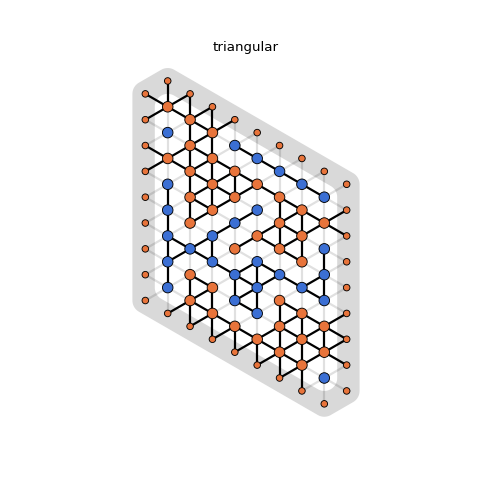
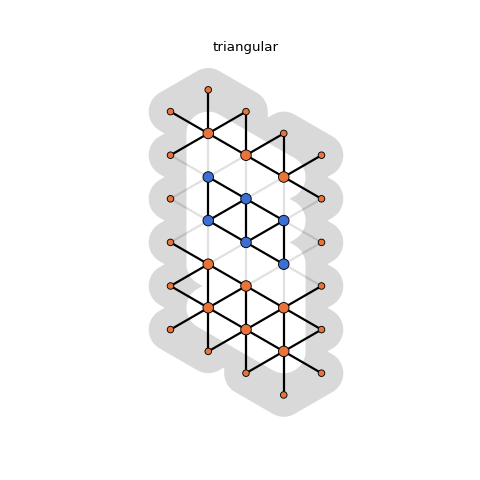
NX Support

Changed region(s): [[0.25, 0.125, 0.75, 0.875]]

diff --git a/perfectSim/viz_demo.py b/perfectSim/viz_demo.py
@@ -2,7 +2,9 @@
 import os
 os.environ.setdefault('MPLBACKEND', 'Agg')
 import numpy as np
-from perfectSim.lattice import grid, triangular, torus, boundary_values, make_lattice, hexagonal, complete, FREE, d_ary_tree
+import networkx as nx
+from perfectSim.lattice.lattice import grid, triangular, torus, boundary_values, hexagonal, complete
+from perfectSim.lattice.latticenx import from_nx
 from perfectSim.models.ising import Ising
 from perfectSim.models.hardCore import HardCoreBipartite
 from perfectSim.models.randomCluster import MonotoneRandomCluster
@@ -24,10 +26,10 @@ save(animate(lat, states, boundary=bd, model=model, edge_rule='aligned'),
      f'{out}/ising.gif', fps=10, dpi=60)
 
 # 2. Triangular lattice with a boundary (band follows the parallelogram).
-tree = d_ary_tree(5, 3)
-tbd = boundary_values(tree, 1)
-draw(tree, rng.choice([-1, 1], tree.n_sites), boundary=tbd, edge_rule='aligned',
-     title='tree').fig.savefig(f'{out}/tree.png', dpi=80)
+tri = triangular(5, 3, ghosts=True)
+tbd = boundary_values(tri, 1)
+draw(tri, rng.choice([-1, 1], tri.n_sites), boundary=tbd, edge_rule='aligned',
+     title='triangular').fig.savefig(f'{out}/triangular.png', dpi=80)
 
 # 3. Torus: wrap-around edges drawn as stubs.
 tor = torus(8)
@@ -70,81 +72,35 @@ states, updated = forward_trajectory(kn_rc)
 kn_anim = animate(kn, edge_states=states)
 save(kn_anim, f'{out}/kn_rc.gif', fps=10)
 
-# L-shape
+# L-Shape
+internal_coords = set(
+    [(r, c) for r in range(2) for c in range(5)] + 
+    [(r, c) for r in range(2, 5) for c in range(2)]
+)
 
-# 1. Define the L-shape coordinates (r, c)
-# Top part: 5 wide (cols 0-4), 2 high (rows 0-1)
-# Short part: 2 wide (cols 0-1), 3 high (rows 2-4)
-internal_coords = set()
-for r in range(2):
-    for c in range(5):
-        internal_coords.add((r, c))
-for r in range(2, 5):
-    for c in range(2):
-        internal_coords.add((r, c))
-
-# 2. Find boundary (ghost) coordinates surrounding the shape
-ghost_coords = set()
+G = nx.Graph()
+for r, c in internal_coords:
+    G.add_node((r, c), pos=(r, c)) # boundary is False by default
 for r, c in internal_coords:
     for dr, dc in [(0, 1), (1, 0), (0, -1), (-1, 0)]:
         nr, nc = r + dr, c + dc
+        
         if (nr, nc) not in internal_coords:
-            ghost_coords.add((nr, nc))
+            if not G.has_node((nr, nc)):
+                G.add_node((nr, nc), pos=(nr, nc), boundary=True)
+                
+        G.add_edge((r, c), (nr, nc))
 
-internal_list = sorted(list(internal_coords))
-ghost_list = sorted(list(ghost_coords))
-
-n_sites = len(internal_list)
-n_boundary = len(ghost_list)
-
-# Map coordinate tuples to sequential node IDs
-coord_to_id = {}
-for i, coord in enumerate(internal_list):
-    coord_to_id[coord] = i
-for i, coord in enumerate(ghost_list):
-    coord_to_id[coord] = n_sites + i
-
-# 3. Allocate lattice arrays
-pos = np.empty((n_sites + n_boundary, 2), dtype=np.float32)
-colour = np.empty(n_sites, dtype=np.int8)
-nbr = np.full((n_sites, 4), FREE, dtype=np.int32)
-
-for (r, c), v in coord_to_id.items():
-    pos[v] = (r, c)  # Stored as (row, col). The renderer naturally maps this to (x, y)
-    
-    if v < n_sites:
-        # Standard grid bipartite colouring
-        colour[v] = (r + c) % 2
-        
-        # Populate neighbors up to max degree of 4
-        valid_nbrs = []
-        for dr, dc in [(0, 1), (1, 0), (0, -1), (-1, 0)]:
-            nr, nc = r + dr, c + dc
-            if (nr, nc) in coord_to_id:
-                valid_nbrs.append(coord_to_id[(nr, nc)])
-        
-        nbr[v, :len(valid_nbrs)] = valid_nbrs
-
-# 4. Construct the Lattice object
-l_lat = make_lattice(
-    n_sites=n_sites, 
-    nbr=nbr, 
-    is_bipartite=True, 
-    colour=colour, 
-    n_boundary=n_boundary, 
-    ghost_pos=pos[n_sites:], 
-    pos=pos
+l_lat = from_nx(
+    G, 
+    boundary_key='boundary', 
+    layout=lambda g: nx.get_node_attributes(g, 'pos')
 )
 
-# 5. Set boundary conditions using a vectorized lambda
-# Since pos stores (r, c), the arguments passed to the lambda are (r, c).
-# This rule sets the top/right to +1 and the bottom/left to -1 to force a domain wall.
 bd = boundary_values(
     l_lat, 
     lambda r, c: np.where((r > 2) | (c < 2), -1, 1)
 )
-
-# 6. Run simulation and animate
 ising_model = Ising(l_lat, beta=0.44, boundary=bd)
 states, updated = forward_trajectory(ising_model, steps=400, stride=4, seed=10)
 

diff --git a/perfectSim/lattice/lattice.py b/perfectSim/lattice/lattice.py
@@ -2,7 +2,7 @@
 Lattices
 '''
 
-from dataclasses import dataclass
+from dataclasses import dataclass, replace
 from typing import Optional, Union
 import numpy as np
 
@@ -15,7 +15,6 @@ class Lattice:
     nbr: np.ndarray, (n_sites, max_degree) nbr[v] contains the neighbours of v
     is_bipartite: bool, is the graph bipartite
     n_boundary: Optional[int], number of boundary vertices
-    ghost_pos: Optional[np.ndarray], (n_boundary, ndim) grid coords of boundary sites
     colour: Optional[np.ndarray], (n_sites,) array of 1s and 0s, required for bipartite graphs
     n_edges: Optional[int], number of edges
     edges: Optonal[np.ndarray], (n_edges, 2) mapping edge_id -> (site_u, site_v)
@@ -26,7 +25,6 @@ class Lattice:
     is_bipartite: bool
 
     n_boundary: Optional[int] = 0
-    ghost_pos: Optional[np.ndarray] = None
     colour: Optional[np.ndarray] = None
 
     n_edges: Optional[int] = 0
@@ -49,7 +47,13 @@ class Lattice:
     @property
     def null(self) -> int: return self.n_sites + self.n_boundary
 
-def make_lattice(n_sites, nbr, is_bipartite, colour = None, n_boundary=0, ghost_pos=None, pos=None) -> Lattice:
+    @property
+    def ghost_pos(self):
+        if self.n_boundary == 0 or self.pos is None:
+            return None
+        return self.pos[self.n_sites : self.n_sites + self.n_sites + self.n_boundary]
+
+def make_lattice(n_sites, nbr, is_bipartite, colour = None, n_boundary=0, pos=None) -> Lattice:
     nbr = np.asarray(nbr, dtype=np.int32)
     null = n_sites + n_boundary
     nbr = np.where(nbr == FREE, null, nbr).astype(np.int32)
@@ -78,7 +82,6 @@ def make_lattice(n_sites, nbr, is_bipartite, colour = None, n_boundary=0, ghost_
         is_bipartite=is_bipartite,
         colour=colour,
         n_boundary=n_boundary, 
-        ghost_pos=ghost_pos,
         n_edges=n_edges,
         edges=edges,
         pos=pos,
@@ -111,8 +114,7 @@ def _grid(L, M, offsets, is_bipartite, colour=None, periodic=False, ghosts=False
     site_pos_list = [(i, j) for i in range(L) for j in range(M)]
     ghost_pos_list = sorted(ghost, key=ghost.get)
     full_pos = np.array(site_pos_list + ghost_pos_list, dtype=np.float32)
-    ghost_coords = np.array(ghost_pos_list, dtype=np.float32) if ghost else None
-    return make_lattice(n, nbr, is_bipartite, colour=colour, n_boundary=len(ghost), ghost_pos=ghost_coords, pos=full_pos)
+    return make_lattice(n, nbr, is_bipartite, colour=colour, n_boundary=len(ghost), pos=full_pos)
 
 SQUARE = [(-1, 0), (1, 0), (0, -1), (0, 1)]
 TRIANGULAR = SQUARE + [(-1, 1), (1, -1)]
@@ -134,8 +136,6 @@ def grid(L, M=None, ghosts=False):
     colour = np.array([(i + j) % 2 for i in range(L) for j in range(M)], dtype=np.int8)
     return _grid(L, M, SQUARE, is_bipartite=True, colour=colour, ghosts=ghosts)
 
-from dataclasses import replace
-
 def triangular(L, M=None, ghosts=False):
     '''LxM triangular grid.'''
     M = L if M is None else M
@@ -147,13 +147,8 @@ def triangular(L, M=None, ghosts=False):
     ], dtype=np.float32)
     
     new_pos = lat.pos @ transform
-    
-    new_ghost_pos = lat.ghost_pos @ transform if lat.ghost_pos is not None else None
-    
-    return replace(lat, pos=new_pos, ghost_pos=new_ghost_pos)
-
-def hexagonal(L, M=None, ghosts=False):
-    M = L if M is None else M
+        
+    return replace(lat, pos=new_pos)
 
 def boundary_values(lat: Lattice, spec: Union[int, callable]):
     '''
@@ -187,9 +182,8 @@ def hexagonal(L, M=None, ghosts=False):
     lat = _grid(L, M, _hex_offsets, is_bipartite=True, colour=colour, ghosts=ghosts)
 
     new_pos = _hex_transform(lat.pos)
-    new_ghost_pos = _hex_transform(lat.ghost_pos) if lat.ghost_pos is not None else None
 
-    return replace(lat, pos=new_pos, ghost_pos=new_ghost_pos)
+    return replace(lat, pos=new_pos)
 
 def complete(n):
     '''Complete graph K_n: every site is a neighbour of every other site.'''

diff --git a/perfectSim/lattice/latticenx.py b/perfectSim/lattice/latticenx.py
@@ -1,0 +1,45 @@
+'''
+Lattice constructor form networkx object.
+'''
+
+import numpy as np
+import networkx as nx
+from perfectSim.lattice.lattice import Lattice, make_lattice, FREE
+
+def from_nx(G:nx.Graph, boundary_key='boundary', layout:callable = None) -> Lattice:
+    boundary_dict = nx.get_node_attributes(G, boundary_key)
+
+    real_nodes = [n for n in G.nodes if not boundary_dict.get(n, False)]
+    boundary_nodes = [n for n in G.nodes if boundary_dict.get(n, False)]
+    n_sites = len(real_nodes)
+    n_boundary = len(boundary_nodes)
+
+    node_mapping = {old: new for new, old in enumerate(real_nodes + boundary_nodes)}
+    G_int = nx.relabel_nodes(G, node_mapping)
+
+    max_degree = max((d for n, d in G.degree), default=0)
+
+    nbr = np.full((n_sites, max_degree), FREE, dtype=np.int32)
+
+    for v in range(n_sites):
+        nbrs = list(G_int.neighbors(v))
+        nbr[v, :len(nbrs)] = nbrs
+
+    is_bipartite = nx.is_bipartite(G_int)
+
+    colour = None
+    if is_bipartite and n_sites > 0:
+        color_dict = nx.bipartite.color(G_int)
+        colour = np.array([color_dict[n] for n in range(n_sites)], dtype=np.int8)
+
+    coords = nx.spring_layout(G_int) if layout is None else layout(G_int)
+    pos = np.array([coords[n] for n in range(n_sites + n_boundary)], dtype=np.float32)
+
+    return make_lattice(
+        n_sites=n_sites,
+        nbr=nbr,
+        is_bipartite=is_bipartite,
+        colour=colour,
+        n_boundary=n_boundary,
+        pos=pos
+    )

diff --git a/perfectSim/viz3d_demo.py b/perfectSim/viz3d_demo.py
@@ -2,8 +2,8 @@
 import os
 os.environ.setdefault('MPLBACKEND', 'Agg')
 import numpy as np
-from perfectSim.lattice import boundary_values
-from perfectSim.lattice3d import grid3d, torus3d, complete_sphere
+from perfectSim.lattice.lattice import boundary_values
+from perfectSim.lattice.lattice3d import grid3d, torus3d, complete_sphere
 from perfectSim.models.ising import Ising
 from perfectSim.models.hardCore import HardCoreBipartite
 from perfectSim.models.randomCluster import MonotoneRandomCluster

diff --git a/tests/test_viz.py b/tests/test_viz.py
@@ -5,7 +5,7 @@ import numpy as np
 import pytest
 import matplotlib.pyplot as plt
 
-from perfectSim.lattice import grid, triangular, torus, boundary_values, FREE
+from perfectSim.lattice.lattice import grid, triangular, torus, boundary_values, FREE
 from perfectSim.viz import (draw, animate, save, Palette, ISING, categorical_palette,
                      default_palette, forward_trajectory, ghost_values_from_boundary,
                      rule_aligned)

diff --git a/perfectSim/viz3d/artist.py b/perfectSim/viz3d/artist.py
@@ -15,7 +15,7 @@ import numpy as np
 import matplotlib.pyplot as plt
 from matplotlib.colors import to_rgba
 from mpl_toolkits.mplot3d.art3d import Line3DCollection, Poly3DCollection
-from perfectSim.lattice import FREE, Lattice
+from perfectSim.lattice.lattice import FREE, Lattice
 from perfectSim.viz.frames import Frame
 from perfectSim.viz.palettes import Palette
 from .geometry import as_3d, edge_segments, orient, padded_hull_faces

diff --git a/perfectSim/viz/artist.py b/perfectSim/viz/artist.py
@@ -13,7 +13,7 @@ import matplotlib.pyplot as plt
 from matplotlib.collections import LineCollection
 from matplotlib.colors import to_rgba
 from matplotlib.patches import Polygon
-from perfectSim.lattice import FREE, Lattice
+from perfectSim.lattice.lattice import FREE, Lattice
 from .frames import Frame
 from .geometry import edge_segments, orient, padded_hull
 from .palettes import Palette

diff --git a/perfectSim/viz/frames.py b/perfectSim/viz/frames.py
@@ -12,7 +12,7 @@ states: open/closed) or from an 'edge rule' derived from vertex values.
 from dataclasses import dataclass
 from typing import Callable, Optional
 import numpy as np
-from perfectSim.lattice import FREE, Lattice
+from perfectSim.lattice.lattice import FREE, Lattice
 
 
 def ghost_values_from_boundary(lat: Lattice, boundary: Optional[dict]) -> np.ndarray:

diff --git a/perfectSim/cftp_viz_demo.py b/perfectSim/cftp_viz_demo.py
@@ -4,7 +4,7 @@ os.environ.setdefault('MPLBACKEND', 'Agg')
 from perfectSim.viz import animate_pair, save
 from perfectSim.models.ising import Ising
 from perfectSim.random.cftp import monotone_cftp
-from perfectSim.lattice import hexagonal, boundary_values
+from perfectSim.lattice.lattice import hexagonal, boundary_values
 import numpy as np
 
 out = 'viz_out'

diff --git a/perfectSim/lattice/lattice3d.py b/perfectSim/lattice/lattice3d.py
@@ -9,7 +9,7 @@ Site id = (i * M + j) * N + k.
 import itertools
 from dataclasses import replace
 import numpy as np
-from perfectSim.lattice import FREE, Lattice, make_lattice, complete
+from perfectSim.lattice.lattice import FREE, Lattice, make_lattice, complete
 
 CUBIC = [(-1, 0, 0), (1, 0, 0), (0, -1, 0), (0, 1, 0), (0, 0, -1), (0, 0, 1)]
 

diff --git a/tests/test_hard_core_general.py b/tests/test_hard_core_general.py
@@ -2,7 +2,7 @@ import pytest
 import numpy as np
 from scipy.stats import chisquare
 
-from perfectSim.lattice import make_lattice, triangular
+from perfectSim.lattice.lattice import make_lattice, triangular
 from perfectSim.models.hardCore import HardCoreGeneral
 from perfectSim.random.bounding_cftp import bounding_cftp
 

diff --git a/tests/test_ising_anti.py b/tests/test_ising_anti.py
@@ -2,7 +2,7 @@ import pytest
 import numpy as np
 from scipy.stats import chisquare
 
-from perfectSim.lattice import make_lattice, torus
+from perfectSim.lattice.lattice import make_lattice, torus
 from perfectSim.models.ising import IsingAntiFerromagnetic
 from perfectSim.random.bounding_cftp import bounding_cftp
 
